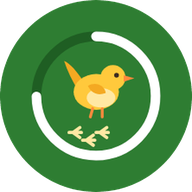
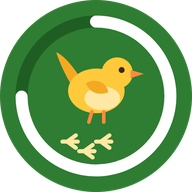
0.9.5: F-Droid ve IzzyOnDroid'e hazırlık (#17)
- Güncelleme indirmeden önce mağaza denetimini atladığını söyleyen onay
  penceresi (12 dil)
- dependenciesInfo kapalı: APK'ya Google'ın şifreli bağımlılık bloğu
  eklenmiyor
- fastlane/metadata/android (en-US, tr-TR): başlık, açıklamalar, ikon,
  ekran görüntüleri, 15.txt sürüm notu
- Tekrarlanabilir derleme kontrolü (iki temiz derlemeyi karşılaştırır)
- README'ye Obtainium rozeti, ikon vektörden yeniden çizildi
- CLAUDE.md'ye Dağıtım bölümü

Claude-Session: https://claude.ai/code/session_01SpQBZrDq8FQ7mHFgecw2Ae

diff --git a/app/src/main/java/com/dordeorz/adimsayar/ui/SettingsScreen.kt b/app/src/main/java/com/dordeorz/adimsayar/ui/SettingsScreen.kt
@@ -74,6 +74,7 @@ private enum class SettingsDialog { DailyGoal, WeeklyGoal, Height, Weight, Age, 
 private class ReleaseNote(val version: String, @param:ArrayRes val lines: Int)
 
 private val RELEASE_NOTES = listOf(
+    ReleaseNote("0.9.5", R.array.release_notes_0_9_5),
     ReleaseNote("0.9.4", R.array.release_notes_0_9_4),
     ReleaseNote("0.9.3", R.array.release_notes_0_9_3),
     ReleaseNote("0.9.2", R.array.release_notes_0_9_2),
@@ -304,7 +305,23 @@ fun SettingsScreen(state: MainUiState, actions: MainActions) {
             var apk by remember { mutableStateOf<File?>(null) }
             var downloadFailed by remember { mutableStateOf(false) }
             var needsPermission by remember { mutableStateOf(false) }
+            var confirmDownload by remember { mutableStateOf(false) }
             val available = update as? UpdateResult.Available
+            val download: (UpdateResult.Available, String) -> Unit = { release, url ->
+                scope.launch {
+                    progress = 0
+                    val downloaded = UpdateInstaller.download(context, url, release.version) { percent ->
+                        scope.launch { progress = percent }
+                    }
+                    progress = null
+                    apk = downloaded
+                    downloadFailed = downloaded == null
+                    if (downloaded != null) {
+                        val start = UpdateInstaller.install(context, downloaded)
+                        needsPermission = start == InstallStart.NeedsPermission
+                    }
+                }
+            }
             ClickRow(
                 stringResource(R.string.check_updates),
                 when {
@@ -332,25 +349,30 @@ fun SettingsScreen(state: MainUiState, actions: MainActions) {
                         }
                     }
                     available != null && (downloadFailed || available.apkUrl == null) -> runCatching { uriHandler.openUri(available.url) }
-                    available?.apkUrl != null -> scope.launch {
-                        progress = 0
-                        val downloaded = UpdateInstaller.download(context, available.apkUrl, available.version) { percent ->
-                            scope.launch { progress = percent }
-                        }
-                        progress = null
-                        apk = downloaded
-                        downloadFailed = downloaded == null
-                        if (downloaded != null) {
-                            val start = UpdateInstaller.install(context, downloaded)
-                            needsPermission = start == InstallStart.NeedsPermission
-                        }
-                    }
+                    available?.apkUrl != null -> confirmDownload = true
                     else -> scope.launch {
                         checking = true
                         update = UpdateChecker.check(state.version)
                         checking = false
                     }
                 }
+            }
+            val url = available?.apkUrl
+            if (confirmDownload && available != null && url != null) {
+                AlertDialog(
+                    onDismissRequest = { confirmDownload = false },
+                    title = { Text(stringResource(R.string.update_consent_title)) },
+                    text = { Text(stringResource(R.string.update_consent_text)) },
+                    confirmButton = {
+                        TextButton(onClick = {
+                            confirmDownload = false
+                            download(available, url)
+                        }) { Text(stringResource(R.string.update_consent_download)) }
+                    },
+                    dismissButton = {
+                        TextButton(onClick = { confirmDownload = false }) { Text(stringResource(R.string.cancel)) }
+                    },
+                )
             }
             ClickRow(stringResource(R.string.github_page), stringResource(R.string.github_page_hint)) {
                 runCatching { uriHandler.openUri(UpdateChecker.GITHUB_URL) }

diff --git a/CLAUDE.md b/CLAUDE.md
@@ -117,7 +117,7 @@ Uygulama açıkken pil için batch'leme kullanılabilir (`registerListener` 4 pa
 
 - API 29+ (Android 10) runtime izni: `ACTIVITY_RECOGNITION`. İki sensör için de zorunlu.
 - `HIGH_SAMPLING_RATE_SENSORS` gereksiz, ekleme.
-- `INTERNET` yalnızca güncelleme kontrolü için vardır. Tek istisna Ayarlar'daki güncelleme kontrolüdür (2026-10-09 kararı): yalnızca kullanıcı düğmeye bastığında GitHub'ın son sürüm bilgisini (`api.github.com/repos/DorDeorz/adimsayar/releases/latest`) okur. Yeni sürüm varsa kullanıcı ikinci kez dokununca o sürümün APK'sı GitHub Releases'tan indirilir ve Android'in kurulum ekranı açılır (2026-10-12 kararı; `REQUEST_INSTALL_PACKAGES`, `FileProvider`, `data/UpdateInstaller.kt`). Kurulum kullanıcı onayıyla Android tarafından yapılır, uygulama sessiz kurulum yapmaz. Adım verisi ya da kişisel bilgi gönderilmez, arka planda kontrol ya da indirme yapılmaz. Başka hiçbir ağ isteği eklenmez.
+- `INTERNET` yalnızca güncelleme kontrolü için vardır. Tek istisna Ayarlar'daki güncelleme kontrolüdür (2026-10-09 kararı): yalnızca kullanıcı düğmeye bastığında GitHub'ın son sürüm bilgisini (`api.github.com/repos/DorDeorz/adimsayar/releases/latest`) okur. Yeni sürüm varsa kullanıcı ikinci kez dokunup mağaza denetimini atladığını söyleyen onay penceresini kabul edince (2026-10-13, F-Droid/IzzyOnDroid kuralı) o sürümün APK'sı GitHub Releases'tan indirilir ve Android'in kurulum ekranı açılır (2026-10-12 kararı; `REQUEST_INSTALL_PACKAGES`, `FileProvider`, `data/UpdateInstaller.kt`). Kurulum kullanıcı onayıyla Android tarafından yapılır, uygulama sessiz kurulum yapmaz. Adım verisi ya da kişisel bilgi gönderilmez, arka planda kontrol ya da indirme yapılmaz. Başka hiçbir ağ isteği eklenmez.
 
 ## Widget'lar
 
@@ -153,6 +153,15 @@ Veri kaybına karşı iki katman:
 - Paylaşım kartı: günün özeti cihazda PNG olarak çizilir ve Android paylaşım menüsüyle gönderilir (`ui/ShareCard.kt`); uygulama ağa bir şey göndermez
 
 Xiaomi Cloud'a güvenilmez.
+
+## Dağıtım
+
+GitHub Releases (Obtainium bunu okur), IzzyOnDroid ve F-Droid hedeflenir (2026-10-13 kararı; ayrıntı `/mnt/project-files/ideas/acik-kaynak-magazalar.md`). Bunun için:
+
+- Mağaza metinleri ve görselleri `fastlane/metadata/android/{en-US,tr-TR}` altındadır. Her sürümde `changelogs/<versionCode>.txt` eklenir.
+- `dependenciesInfo` kapalıdır; APK'ya Google'ın şifreli bağımlılık bloğu eklenmez.
+- Derleme tekrarlanabilir olmalıdır (aynı koddan bayt bayt aynı APK), böylece F-Droid geliştiricinin imzalı APK'sını yayınlayabilir. Kontrol: Actions → "Tekrarlanabilir derleme".
+- Google Play Services, Firebase, analitik ya da reklam kütüphanesi eklenmez.
 
 ## Genel kurallar
 

diff --git a/README.tr.md b/README.tr.md
@@ -16,6 +16,10 @@
 </p>
 
 <p align="center">
+  <a href="https://apps.obtainium.imranr.dev/redirect?r=obtainium://app/%7B%22id%22%3A%22com.dordeorz.adimsayar%22%2C%22url%22%3A%22https%3A%2F%2Fgithub.com%2FDorDeorz%2Fadimsayar%22%2C%22author%22%3A%22DorDeorz%22%2C%22name%22%3A%22FitWren%22%7D"><img src="docs/badge_obtainium.png" height="48" alt="Obtainium ile al"></a>
+</p>
+
+<p align="center">
   <a href="README.md">English</a> · <b>Türkçe</b>
 </p>
 
@@ -136,13 +140,13 @@ Madalyalar kalıcı olduğu için kazanılan eşya da kalır. Uygulamada kuşa d
 3. İlk açılışta "Fiziksel etkinlik" iznini ver.
 4. Xiaomi telefonlarda bildirimsiz sayım için Ayarlar → Adım kaynağı → "HyperOS adım kaydını kullan"ı aç.
 
-Güncellemeler: Ayarlar → Hakkında → "Güncellemeleri kontrol et" yeni APK'yı GitHub'dan indirir ve Android'in kurulum ekranını açar. Sürümleri [Obtainium](https://github.com/ImranR98/Obtainium) ile de takip edebilirsin.
+Güncellemeler: Ayarlar → Hakkında → "Güncellemeleri kontrol et" önce onay ister, sonra yeni APK'yı GitHub'dan indirir ve Android'in kurulum ekranını açar. FitWren'i Obtainium ya da başka bir mağazadan kurduysan oradan güncelle. Sürümleri [Obtainium](https://github.com/ImranR98/Obtainium) ile de takip edebilirsin.
 
 ## Gizlilik
 
 FitWren günlük adım toplamlarını, suyu, kiloyu ve ayarlarını telefonda saklar. Hiçbir şey bir yere gönderilmez.
 
-Tek ağ isteği "Güncellemeleri kontrol et"e dokunduğunda yapılır: uygulama son sürüm numarasını `api.github.com/repos/DorDeorz/adimsayar/releases/latest` adresinden okur, tekrar dokunursan APK'yı GitHub Releases'tan indirir. Bu isteklerle senin ya da adımlarınla ilgili hiçbir bilgi gönderilmez.
+Tek ağ isteği "Güncellemeleri kontrol et"e dokunduğunda yapılır: uygulama son sürüm numarasını `api.github.com/repos/DorDeorz/adimsayar/releases/latest` adresinden okur, tekrar dokunup onaylarsan APK'yı GitHub Releases'tan indirir. Bu isteklerle senin ya da adımlarınla ilgili hiçbir bilgi gönderilmez.
 
 Health Connect yalnızca "Bileklik adımlarını kullan" açıksa ve yalnızca okumak için kullanılır. FitWren Health Connect'e hiçbir şey yazmaz.
 

diff --git a/README.md b/README.md
@@ -16,6 +16,10 @@
 </p>
 
 <p align="center">
+  <a href="https://apps.obtainium.imranr.dev/redirect?r=obtainium://app/%7B%22id%22%3A%22com.dordeorz.adimsayar%22%2C%22url%22%3A%22https%3A%2F%2Fgithub.com%2FDorDeorz%2Fadimsayar%22%2C%22author%22%3A%22DorDeorz%22%2C%22name%22%3A%22FitWren%22%7D"><img src="docs/badge_obtainium.png" height="48" alt="Get it on Obtainium"></a>
+</p>
+
+<p align="center">
   <b>English</b> · <a href="README.tr.md">Türkçe</a>
 </p>
 
@@ -136,13 +140,13 @@ Medals are permanent, so items stay once earned. Tap the bird in the app and it 
 3. On first launch, allow "Physical activity".
 4. On Xiaomi phones, turn on Settings → Step source → "Use the HyperOS step record" for counting without a notification.
 
-Updates: Settings → About → "Check for updates" downloads the new APK from GitHub and opens Android's installer. You can also track releases with [Obtainium](https://github.com/ImranR98/Obtainium).
+Updates: Settings → About → "Check for updates" asks you to confirm, then downloads the new APK from GitHub and opens Android's installer. If you installed FitWren from Obtainium or another store, update it there. You can also track releases with [Obtainium](https://github.com/ImranR98/Obtainium).
 
 ## Privacy
 
 FitWren stores daily step totals, water, weight and your settings on the phone. Nothing is sent anywhere.
 
-The only network request is made when you tap "Check for updates": the app reads the latest version number from `api.github.com/repos/DorDeorz/adimsayar/releases/latest`, and if you tap again it downloads the APK from GitHub Releases. Nothing about you or your steps is sent with it.
+The only network request is made when you tap "Check for updates": the app reads the latest version number from `api.github.com/repos/DorDeorz/adimsayar/releases/latest`, and if you tap again and confirm, it downloads the APK from GitHub Releases. Nothing about you or your steps is sent with it.
 
 Health Connect is used only if you turn on "Use band steps", and only for reading. FitWren never writes to Health Connect.
 

diff --git a/CHANGELOG.md b/CHANGELOG.md
@@ -2,6 +2,12 @@
 
 Her sürümde nelerin eklendiği ve nelerin düzeltildiği, yeniden eskiye. Uygulamada da Ayarlar → Sürüm notları altında, seçilen dilde görülebilir. APK'lar: [Releases](https://github.com/DorDeorz/adimsayar/releases).
 
+## 0.9.5
+
+- GitHub'dan güncelleme indirmeden önce, mağazanın denetimini atladığını söyleyen bir onay sorulur
+- F-Droid ve IzzyOnDroid'e hazırlık: mağaza açıklamaları ve ekran görüntüleri (`fastlane/`), APK'da Google'ın bağımlılık bloğu kapatıldı
+- README'ye Obtainium rozeti
+
 ## 0.9.4
 
 - Su widget'ındaki +250 ml düğmesi artık suyu ekliyor
